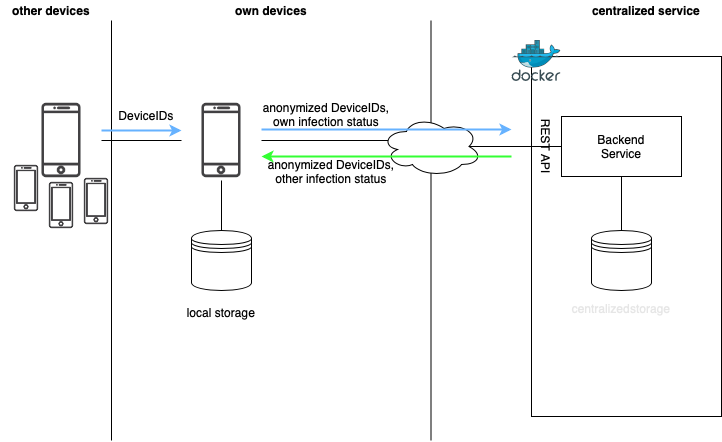
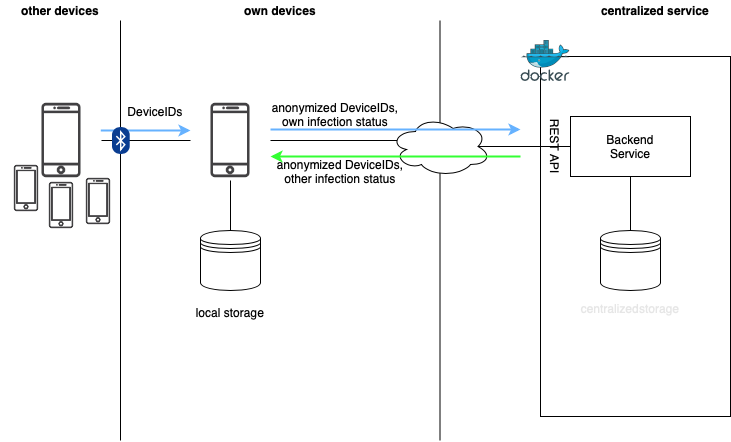
Add Bluetooth to documentation

diff --git a/README.md b/README.md
@@ -33,7 +33,7 @@ Hinweis: Sollte ein zuvor positiv getesteter Anwender wieder genesen, kann der S
 
 # Technische Umsetzung  
 
-Mit der von uns vorgesehenen Lösung werden von dem eigenen Gerät alle Geräte in der Umgebung protokolliert. Die IDs werden ermittelt und als anonyme Kennzeichnung lokal gespeichert.  
+Mit der von uns vorgesehenen Lösung werden von dem eigenen Gerät alle Geräte in der Umgebung protokolliert. Die IDs werden über Bluetooth ermittelt und als anonyme Kennzeichnung lokal gespeichert.  
 
 Von einem zentralen Server-Dienst werden Geräte-IDs von positiv getesteten Nutzern gelesen und der Anwender wird vor einer potentiellen Ansteckung gewarnt, um so die Infektionskette zu unterbrechen.  
 

diff --git a/docs/drawio/README.md b/docs/drawio/README.md
@@ -1,1 +1,5 @@
-draw.io files for documentation
+# draw.io files for documentation
+
+## Credits
+
+- Bluetooth icon source https://de.wikipedia.org/wiki/Datei:Bluetooth.svg
